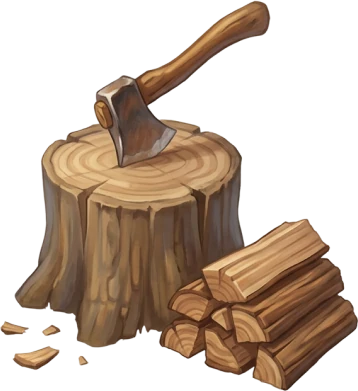
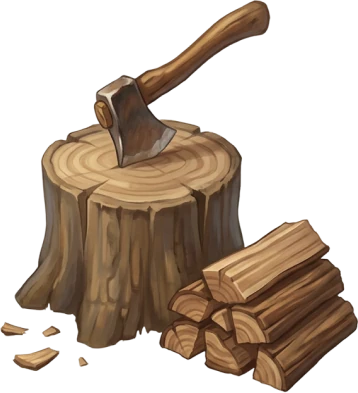
v98: passages by woodshed and barn corner, corner sliding; re-filtered chop block

diff --git a/index.html b/index.html
@@ -218,7 +218,7 @@ body.overview .hud, body.overview .stick-zone, body.overview .guide, body.overvi
 <script>
 // ===================== Общие настройки =====================
 const DPR = Math.min(window.devicePixelRatio || 1, 3);
-const GAME_VERSION = 96;   // совпадает с номером в sw.js (farm-vN); видно в окне «Заново»
+const GAME_VERSION = 98;   // совпадает с номером в sw.js (farm-vN); видно в окне «Заново»
 // Слои земли (трава, дорожки, поля, тени) — глубже любых персонажей и деревьев, даже с отрицательной y
 const GROUND = -5000;
 // Карта: y от −1000 до 2000. Верх (y < 0) — поле с пшеницей, низ (y > 1000) — пастбище Нанамина
@@ -1385,9 +1385,9 @@ function drawGround() {
 // [картинка, x, y — точка «основания» (середина низа), масштаб; ox — где по ширине картинки эта точка (0..1); solid — [dx1, dy1, dx2, dy2] от основания]
 const BUILDINGS = [
   // группа деда (как на схеме): амбар сзади, дровник слева от него, домик впереди, дом деда справа. Масштаб 0.75, домик 0.95
-  ['ambar', -259, 185, 0.75, 0.5, [-185, -100, 180, -9]],   // отодвинут назад; твёрдость — по стенам вместе с боковыми: проход перед воротами и за амбаром
-  ['drovnik', -406, 215, 0.75, 0.5, [-100, -62, 105, -9]],   // опущен (стоит на земле); твёрдость — весь навес с поленницей
-  ['domik', -170, 390, 0.95, 0.5, [-112, -161, 97, -12]],   // твёрдость по стенам — между домиком и домом Сверкеля проход   // домик заметно крупнее (просьба: ближе по размеру к дому деда)
+  ['ambar', -259, 185, 0.75, 0.5, [-185, -100, 160, -9]],   // отодвинут назад; твёрдость — по стенам: проход перед воротами, справа у угла и за амбаром
+  ['drovnik', -406, 215, 0.75, 0.5, [-100, -62, 80, -9]],   // опущен (стоит на земле); твёрдость — навес с поленницей до правого столба (справа — проход)
+  ['domik', -170, 390, 0.95, 0.5, [-100, -161, 97, -12]],   // твёрдость по стенам — между домиком и домом Сверкеля проход   // домик заметно крупнее (просьба: ближе по размеру к дому деда)
   ['dom-deda', 210, 318, 0.75, 385 / 554, [-230, -225, 126, -21]],   // основание — у крыльца, там же дверь
   // (край карты проходит по дровнику; длинный дом и второй дровник убраны)
 ];
@@ -1401,7 +1401,7 @@ function drawHouse() {
 // ===================== Рубка дров: колода у дровника и мини-игра «попади в момент» =====================
 const CHOP_SPOT = { x: -395, y: 336 };
 function drawChopBlock() {   // пень с топором и поленницей (Magnific, мягкий стиль)
-  const { x, y } = CHOP_SPOT, w = 96, h = w * 391 / 358;
+  const { x, y } = CHOP_SPOT, w = 96, h = w * 393 / 358;
   // низ картинки — щепки; основание пня на 12% выше, поэтому картинку опускаем, а тень кладём под пень и поленья
   scene.add.ellipse(x + w * 0.1, y + 4, w * 0.82, 15, 0x1d2a12, 0.22).setDepth(GROUND - 8);
   scene.add.image(x - w * 0.4, y + h * 0.12, 'prop-chop').setOrigin(0, 1).setDisplaySize(w, h).setDepth(y + 8);
@@ -2829,6 +2829,7 @@ class FarmScene extends Phaser.Scene {
     if (q.get('pos')) { const [px, py] = q.get('pos').split(',').map(Number); player.setPosition(px, py); cam.centerOn(px, py); }
     if (q.get('seen')) state.nanamin.seen = true;
     if (q.get('stage')) { state.nanamin.stage = +q.get('stage'); }
+    if (q.get('walk')) document.title = 'WALK:' + q.get('walk').split(';').map(p => walkable(...p.split(',').map(Number)) ? 1 : 0).join('');   // служебное: проверка проходимости
     if (q.get('tools')) { state.nanamin.tools = +q.get('tools'); }   // служебное: этап с инструментами
     if (q.get('barn')) { state.nanamin.barn = { round1: true, helped: q.get('barn') }; }   // служебное: второй заход в амбар (zmey | solo)
     if (q.get('act')) setTimeout(() => interact(q.get('act')), 600);
@@ -2853,6 +2854,13 @@ class FarmScene extends Phaser.Scene {
       if (walkable(nx, ny)) { player.setPosition(nx, ny); moving = true; }
       else if (Math.abs(ux) > 0.1 && walkable(nx, player.y)) { player.x = nx; moving = true; }
       else if (Math.abs(uy) > 0.1 && walkable(player.x, ny)) { player.y = ny; moving = true; }
+      else {   // упёрлись в угол: ищем щель рядом и соскальзываем в неё (поперёк движения)
+        const px = -uy, py = ux;
+        for (const k of [1, -1, 2, -2]) {
+          const tx = player.x + px * sp * k + ux * sp * 0.3, ty = player.y + py * sp * k + uy * sp * 0.3;
+          if (walkable(tx, ty)) { player.setPosition(tx, ty); moving = true; break; }
+        }
+      }
     }
 
     player.setDepth(player.y);

diff --git a/sw.js b/sw.js
@@ -4,7 +4,7 @@
 //  • картинки и движок — сразу из сохранённой копии (без похода в сеть при каждом запуске).
 //    Когда выходит новая версия (меняется CACHE), новый service worker при установке
 //    обновляет все файлы — неизменённые браузер не скачивает заново (сверяет и получает «не изменился»).
-const CACHE = 'farm-v96';
+const CACHE = 'farm-v98';
 const CORE = [
   './',
   './index.html',
